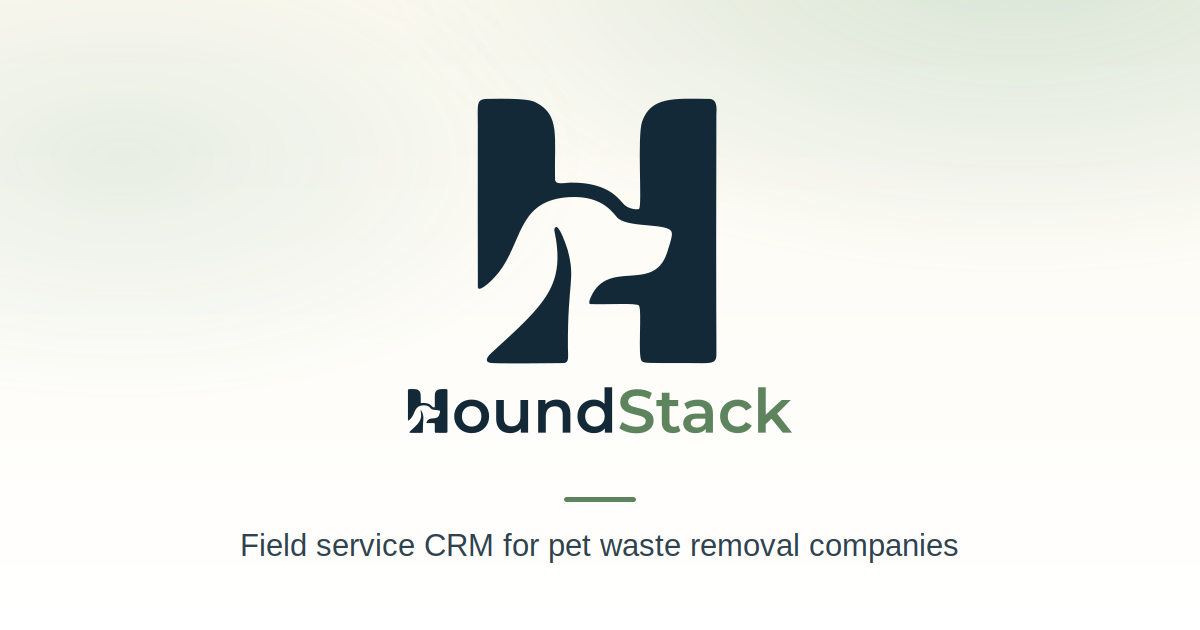
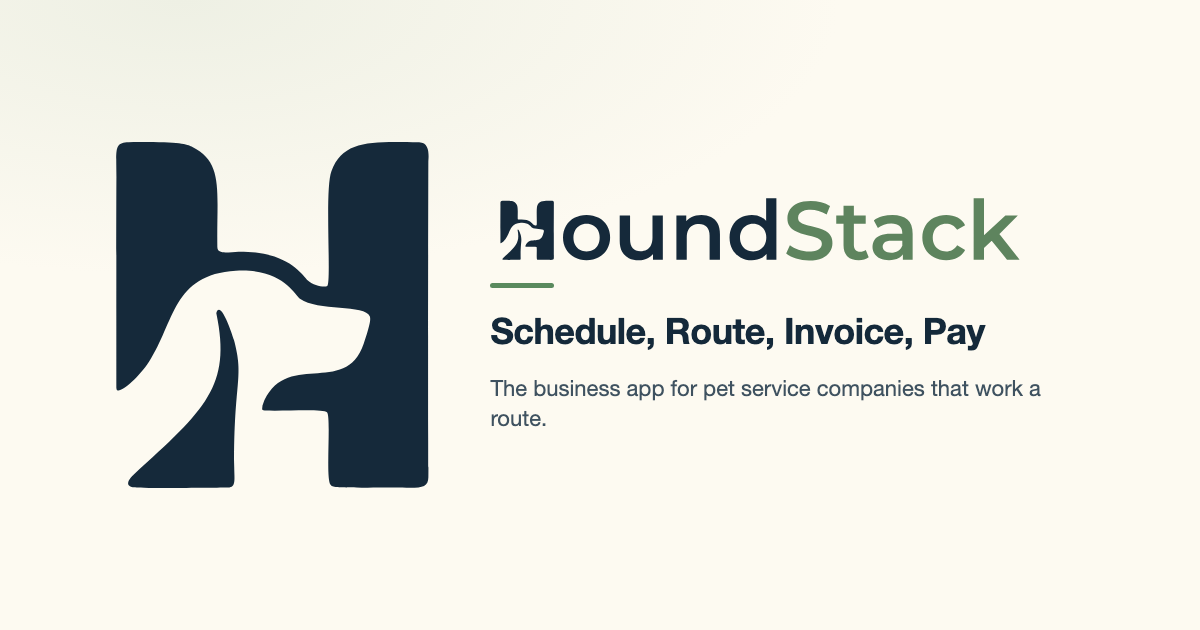
The sign-in screen says what the listings say
Seen on the Android emulator tonight: the first screen a reviewer or a new
owner reads still said "Field service CRM built for pet waste removal
companies." The App Store and Play listings now say the business system for
pet service companies that work a route, starting with pet waste removal.

- APP_DESCRIPTION (the /auth tagline) and the root description, og and
  twitter tags carry the new positioning; the fallback page title is plain
  "HoundStack" (every route names its own tab anyway).
- public/og-image.png is redrawn in the Play feature graphic's style:
  "Schedule, Route, Invoice, Pay". The old one said "Field service CRM for
  pet waste removal companies".

diff --git a/src/routes/__root.tsx b/src/routes/__root.tsx
@@ -111,11 +111,11 @@ export const Route = createRootRouteWithContext<{ queryClient: QueryClient }>()(
           ? "width=device-width, initial-scale=1, viewport-fit=cover"
           : "width=device-width, initial-scale=1",
       },
-      { title: "HoundStack - Field Service App" },
+      { title: "HoundStack" },
       {
         name: "description",
         content:
-          "HoundStack runs routes, recurring visits, per-dog billing, and the field app for pet waste removal companies.",
+          "Schedule, route, invoice and get paid. HoundStack is the business system for pet service companies that work a route, starting with pet waste removal.",
       },
       { name: "robots", content: "noindex" },
       // Matches manifest.theme_color in vite.config.ts (brand cream). Chrome
@@ -125,22 +125,22 @@ export const Route = createRootRouteWithContext<{ queryClient: QueryClient }>()(
       { name: "theme-color", content: "#fdfaf1" },
       { property: "og:site_name", content: "HoundStack" },
       { property: "og:type", content: "website" },
-      { property: "og:title", content: "HoundStack - Field Service App" },
-      { name: "twitter:title", content: "HoundStack - Field Service App" },
+      { property: "og:title", content: "HoundStack: the business system for route-based pet services" },
+      { name: "twitter:title", content: "HoundStack: the business system for route-based pet services" },
       {
         name: "description",
         content:
-          "HoundStack runs routes, recurring visits, per-dog billing, and the field app for pet waste removal companies.",
+          "Schedule, route, invoice and get paid. HoundStack is the business system for pet service companies that work a route, starting with pet waste removal.",
       },
       {
         property: "og:description",
         content:
-          "HoundStack runs routes, recurring visits, per-dog billing, and the field app for pet waste removal companies.",
+          "Schedule, route, invoice and get paid. HoundStack is the business system for pet service companies that work a route, starting with pet waste removal.",
       },
       {
         name: "twitter:description",
         content:
-          "HoundStack runs routes, recurring visits, per-dog billing, and the field app for pet waste removal companies.",
+          "Schedule, route, invoice and get paid. HoundStack is the business system for pet service companies that work a route, starting with pet waste removal.",
       },
       { property: "og:image", content: appUrl("/og-image.png") },
       { property: "og:image:width", content: "1200" },

diff --git a/src/lib/scoop.ts b/src/lib/scoop.ts
@@ -1,7 +1,10 @@
 // Single source of truth for the app-name string.
 export const APP_NAME = "HoundStack";
+// The positioning the App Store and Play listings carry (2026-10-07): a
+// business system for route-based pet services, pet waste removal first.
+// Routing is a feature, not the product, so this never says "routing".
 export const APP_DESCRIPTION =
-  "Field service CRM built for pet waste removal companies.";
+  "The business system for pet service companies that work a route, starting with pet waste removal.";
 // APP_URL used to live here. It was imported by nothing, and it named
 // app.houndstack.com — the host that 307-redirects rather than the one that
 // answers. Use appOrigin() from @/lib/app-origin, which reads the environment

diff --git a/tests/every-tab-was-called-houndstack.test.ts b/tests/every-tab-was-called-houndstack.test.ts
@@ -155,7 +155,7 @@ describe("every route says what it is", () => {
     const missing = ROUTE_FILES.filter(
       (r) => !(r.file in NO_TITLE_NEEDED) && !/\n\s+head:\s*\(/.test(r.src),
     ).map((r) => r.file);
-    expect(missing, "these routes inherit 'HoundStack - Field Service App'").toEqual([]);
+    expect(missing, "these routes inherit the root's plain 'HoundStack'").toEqual([]);
   });
 
   it("a staff or HoundStack page builds its title with pageTitle(), not a literal", () => {
